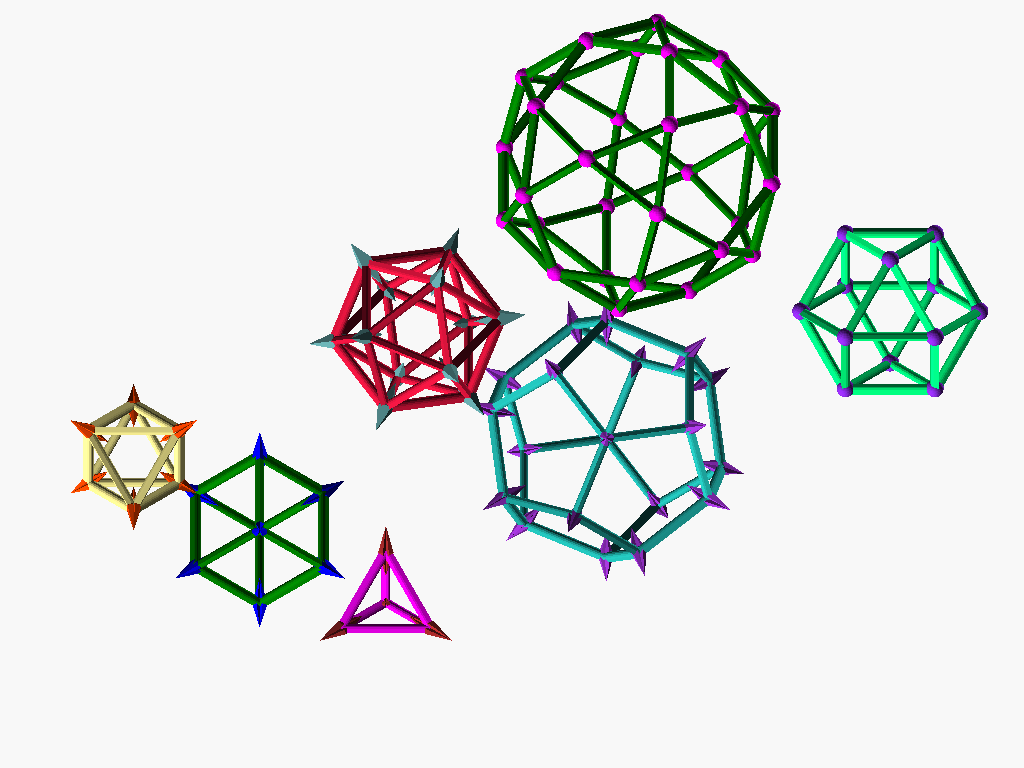
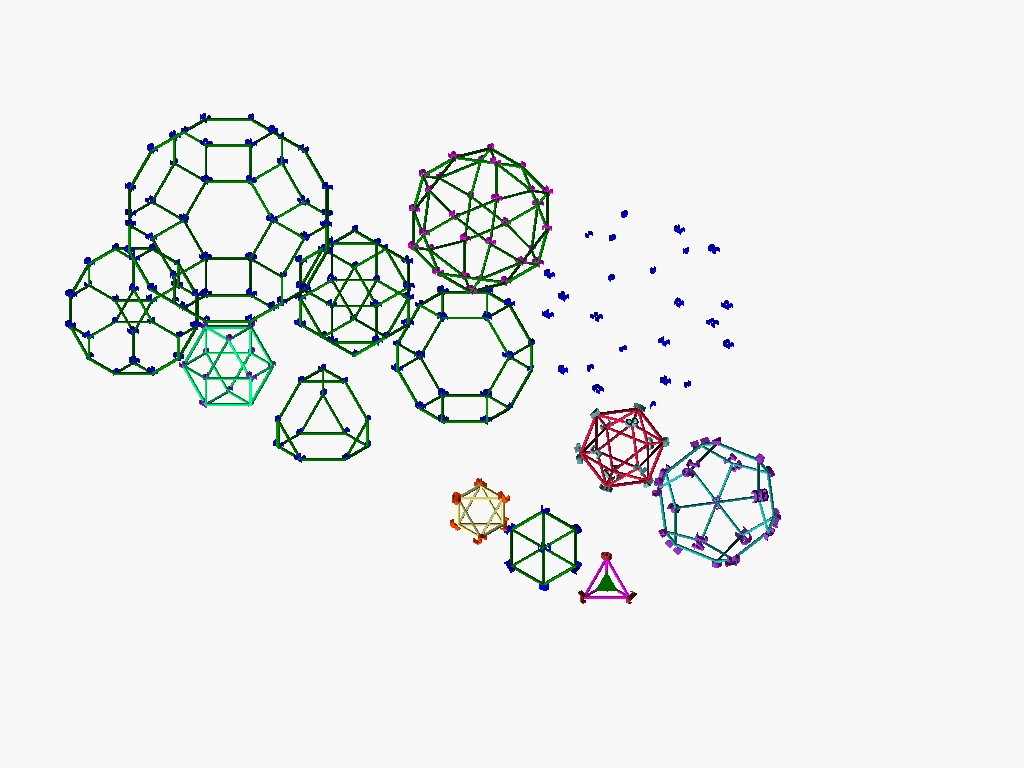
building, tweaking raw data example

Changed region(s): [[0.0625, 0.0, 0.7812, 0.8438], [0.7812, 0.2812, 0.9688, 0.5312]]

diff --git a/README.md b/README.md
@@ -1,4 +1,4 @@
 # openscad-polyhedra
 Use this openSCAD library to build more complex parts based on polyhedra.
 
-![Polyhedra](img/polyhedra.png)
+!Polyhedra](img/polyhedra_all.png)
